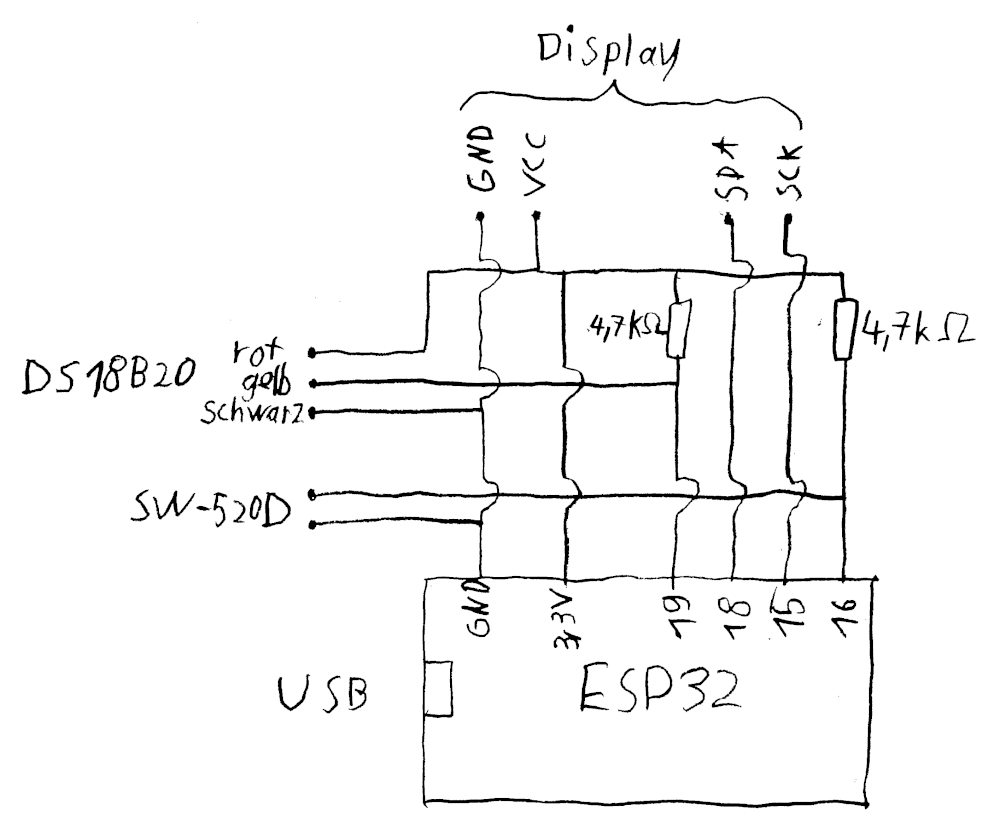
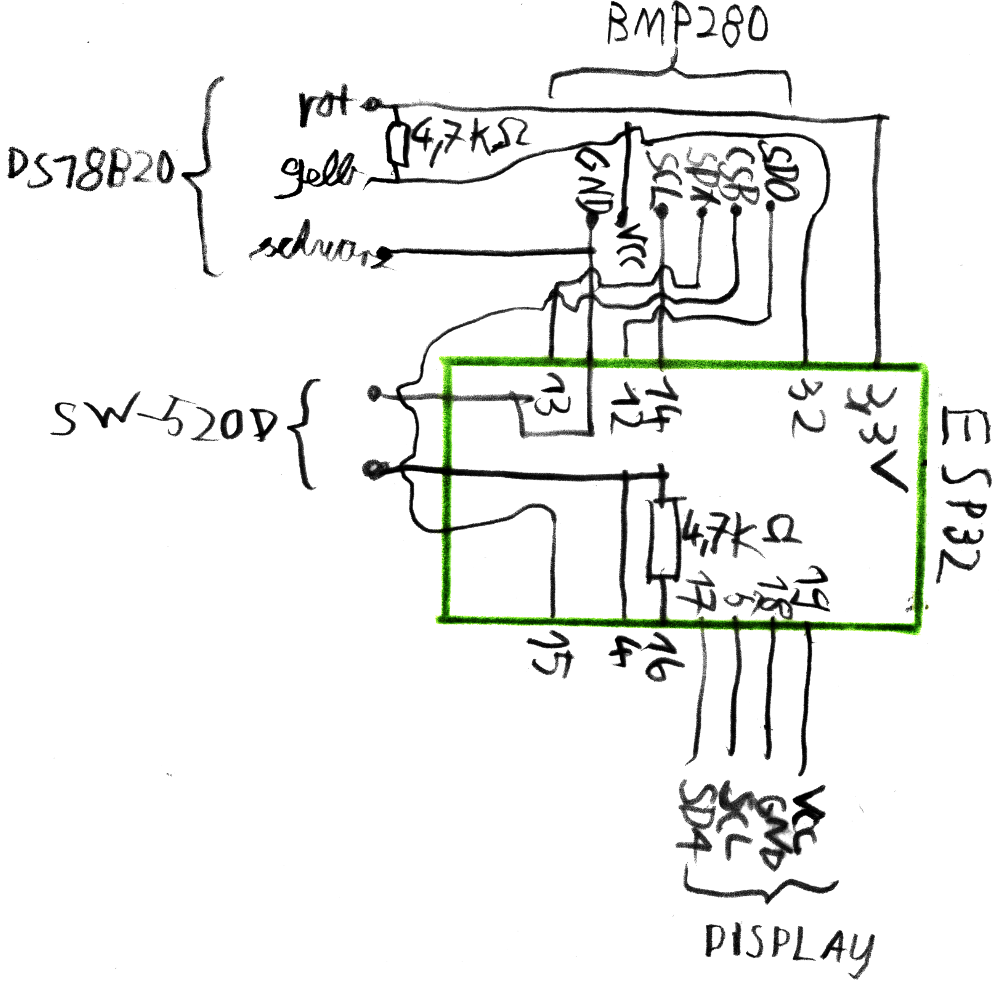
Schaltplan aktualisiert.

diff --git a/README.md b/README.md
@@ -21,7 +21,7 @@ Auf dem folgenden Foto sieht man den Temperatursensor, den USB-Anschluss, die kl
 
 ![Platine der Wetterstation](doc/Box_offen.jpg)
 
-Hier auch eine Zeichnung der Schaltung (hier noch ohne Luftdrucksensor):
+Hier auch eine Zeichnung der Schaltung:
 
 ![Schaltung](doc/Schaltung.png)
 
